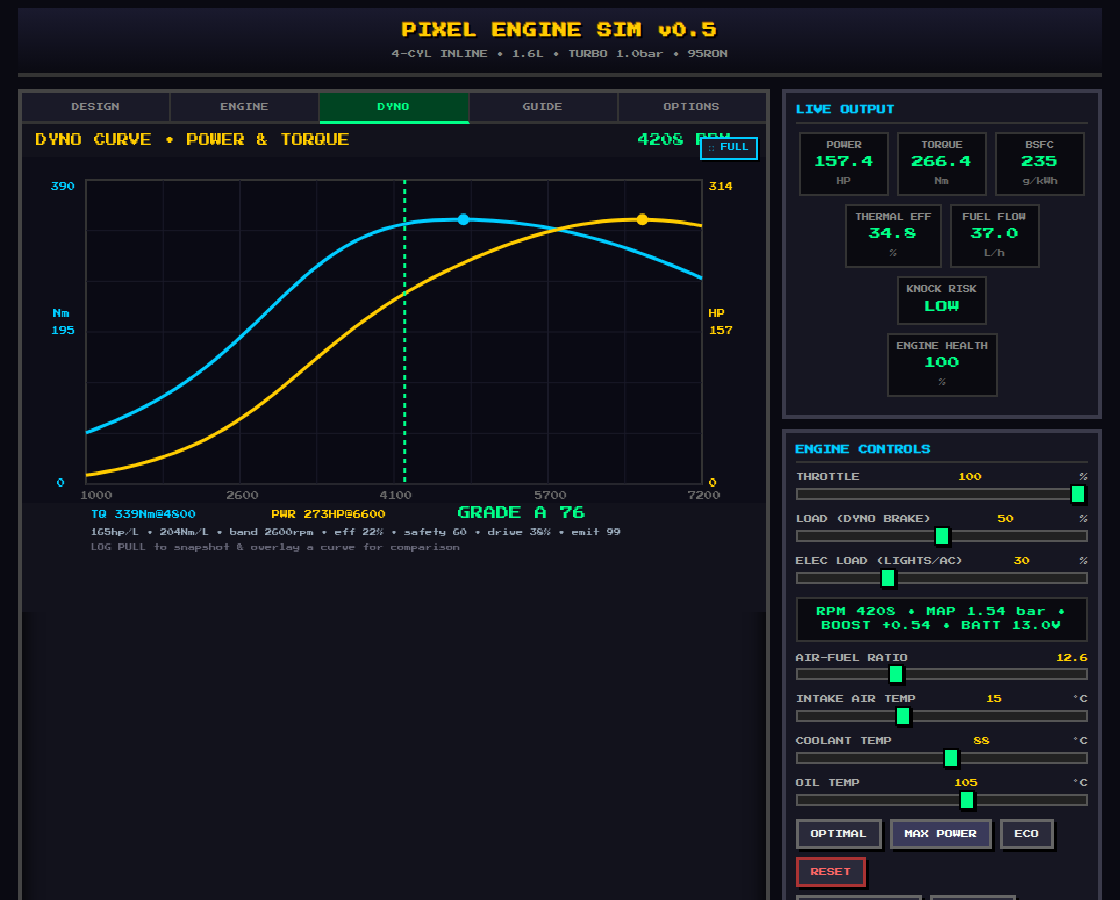
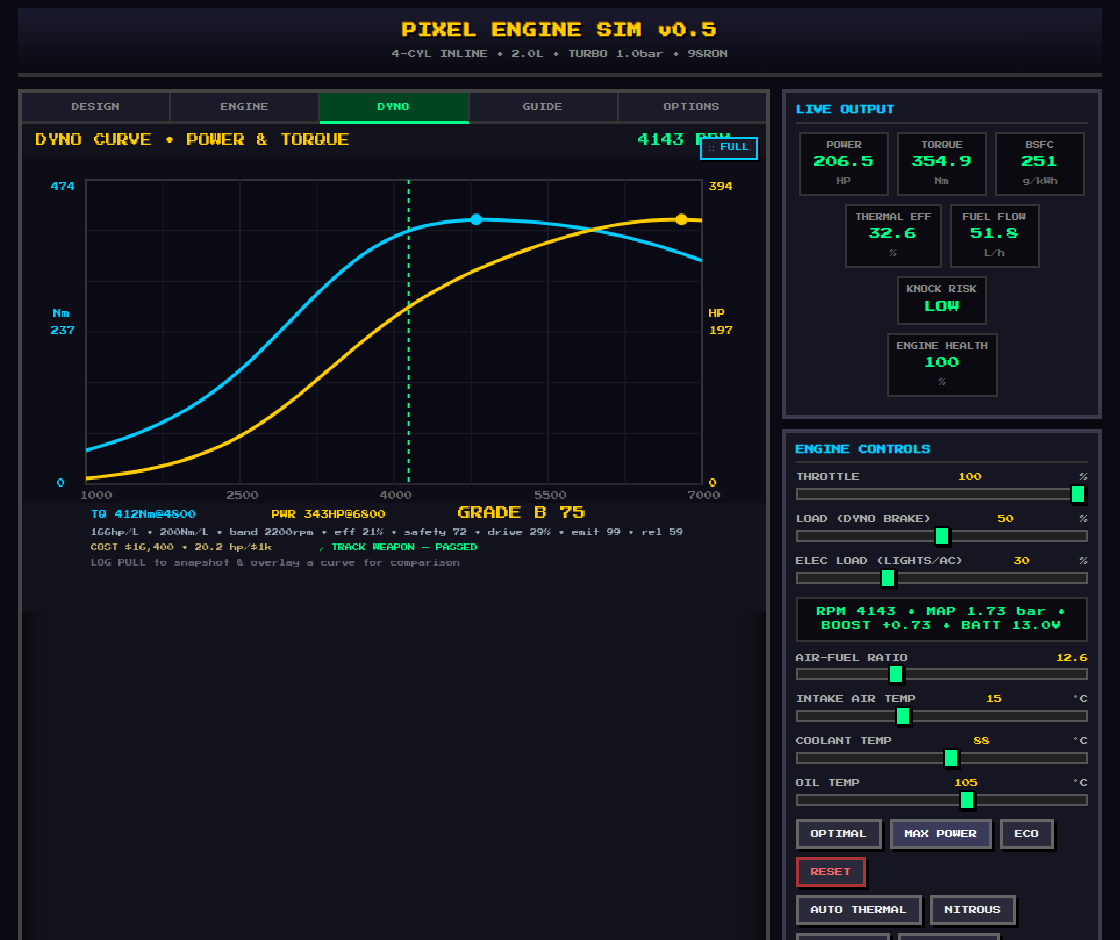
Add strategy layer (C): parts cost, budget, reliability & objective challenges (#19)
- Parts cost model: every design choice carries a rough build price, summed
  into engine.cost (shown in the design summary and on the dyno), so budgets
  and power-per-dollar have meaning. A cheap carb NA lands ~$6k; an exotic
  twin-turbo V8 ~$30k.
- Reliability index: a design-time durability estimate (0-100) from knock
  margin, boost/specific-output stress, anti-lag/nitrous/sky-high-redline
  choices and cooling adequacy for the power made — added to the scorecard.
- Power-per-dollar (hp/$1k) derived metric.
- Objective challenges: eight curated briefs (Budget Sleeper, Power per
  Dollar, Eco Cruiser, Track Weapon, Reliability Run, Clean Machine,
  Specific-Output King, plus Free Build) with optional budget caps and
  targets across power/economy/emissions/reliability/value. An OBJECTIVE
  selector + live challenge card on the DESIGN tab ticks off each target
  (checkmark/cross), draws a budget bar and shows a PASS/FAIL verdict,
  mirrored on the dyno scorecard.
- GUIDE tab gains a Career & Budget section and cost/reliability metrics.

Tests (Playwright, zero console errors), README, roadmap and screenshots updated.

Claude-Session: https://claude.ai/code/session_01AEJgmuJne9ALT6jCcxozCn

diff --git a/index.html b/index.html
@@ -93,6 +93,24 @@ footer{text-align:center;margin-top:16px;padding:8px;font-size:7px;color:#555;bo
 .opt-select{font-family:'Press Start 2P',monospace;font-size:8px;padding:8px;background:#12121c;color:#00ff88;border:2px solid #555}
 .vehicle-soon{font-size:8px;color:#aab;line-height:1.8;padding:6px 2px}
 .vehicle-soon b{color:#ffcc00}
+/* ---- Career / challenge card ---- */
+.challenge-card{background:#0a0a10;border:2px solid #33334a;padding:9px;margin-bottom:6px;font-size:8px;line-height:1.6}
+.ch-desc{color:#99aecc;line-height:1.7;margin-bottom:8px}
+.ch-stats{display:flex;flex-wrap:wrap;gap:12px;margin-bottom:8px;color:#889}
+.ch-stats b{color:#ffcc00}
+.ch-budget{margin:6px 0 8px}
+.ch-bud-lbl{font-size:7px;color:#aab;margin-bottom:4px}
+.ch-bar{height:10px;background:#1a1a28;border:2px solid #444}
+.ch-bar-fill{height:100%}
+.ch-tgt{font-size:7.5px;line-height:1.9;color:#cdd}
+.ch-tgt span{color:#667}
+.ch-tgt.ok{color:#00ff88}
+.ch-tgt.no{color:#ff8888}
+.ch-tgt.ok b,.ch-tgt.no b{color:#fff}
+.ch-verdict{margin-top:8px;padding:6px;text-align:center;font-size:8px;border:2px solid}
+.ch-verdict.pass{color:#00ff88;border-color:#00ff88;background:#04220f}
+.ch-verdict.fail{color:#ffaa66;border-color:#664433;background:#1a1108}
+.ch-hint{font-size:7px;color:#667;margin-top:4px}
 </style>
 </head>
 <body>
@@ -117,6 +135,10 @@ footer{text-align:center;margin-top:16px;padding:8px;font-size:7px;color:#555;bo
 <div class="hint">Load a preset, or configure a build and press BUILD &amp; DYNO. Physics update live.</div>
 
 <div class="field" style="margin-bottom:6px"><label for="edPreset">LOAD A PRESET</label><select id="edPreset"><option value="">— choose a popular build —</option></select></div>
+
+<div class="design-section">Career / Challenge</div>
+<div class="field" style="margin-bottom:6px"><label for="edChallenge">OBJECTIVE</label><select id="edChallenge"></select></div>
+<div class="challenge-card" id="challengeCard"></div>
 
 <div class="design-section">Bottom End</div>
 <div class="design-grid">
@@ -232,15 +254,28 @@ MAP above 1.0.<br>
 does damage. <b>HEALTH (%)</b> — condition; falls under abuse, and 0 = a blown engine (rebuild).<br>
 <b>EMISSIONS (CLEAN/OK/DIRTY)</b> — from the exhaust analyser: CO &amp; HC climb rich, NOx climbs
 lean/hot; a catalytic converter only cleans all three near stoich.<br>
-<b>λ (lambda)</b> — AFR ÷ the fuel's stoichiometric AFR: λ&lt;1 rich, 1 = stoich, &gt;1 lean.
+<b>λ (lambda)</b> — AFR ÷ the fuel's stoichiometric AFR: λ&lt;1 rich, 1 = stoich, &gt;1 lean.<br>
+<b>COST ($)</b> — total build price of the parts you chose. <b>REL (reliability)</b> — a
+design estimate of how much abuse the build invites (boost/knock/heat/high-rpm stress);
+higher is tougher. <b>hp/$1k</b> — power per thousand dollars: the value metric.
 </div>
 
 <div class="design-section">The Scorecard</div>
 <div class="guide-body">
-Every build is graded <b>S → F</b> from six things: specific <b>power</b> &amp; <b>torque</b>
+Every build is graded <b>S → F</b> from seven things: specific <b>power</b> &amp; <b>torque</b>
 (per litre), power<b>band</b> width, thermal <b>eff</b>iciency, knock <b>safety</b>,
 <b>drive</b>ability (low-end torque) and <b>emit</b> (emissions). Chasing peak power usually
 costs drivability, safety and emissions — the score rewards a balanced build.
+</div>
+
+<div class="design-section">Career &amp; Budget</div>
+<div class="guide-body">
+Pick an <b>OBJECTIVE</b> at the top of the DESIGN tab to turn free building into a puzzle.
+Each challenge sets targets — power, economy, emissions, <b>reliability</b> or
+<b>power-per-dollar</b> — and some cap your <b>budget</b>. The card ticks off each target
+live (✓/✗) and shows a <b>PASSED</b> verdict when the whole brief is met; the build's
+<b>cost</b> and reliability are always on show. Cheap displacement wins on value; boost and
+race parts win on power but cost money and reliability. Balance the brief.
 </div>
 
 <div class="design-section">Design Subsystems</div>
@@ -415,6 +450,28 @@ const PRESETS=[
   {name:'6.5 V12 NA Supercar',    engine:{cylinders:12,bore_mm:95,stroke_mm:76.4,compression:11.8,layout:'v',redline:8500,intakeSys:'itb',cam:'race',exhaust:'race',cat:'sport',octane:98,injector:'port',radiator:'large',oilCooler:true}}
 ];
 const STD_TUNE={throttle:0.85,load:0.40,elecLoad:0.30,afr:13.2,iat:25,coolant:90,oil:100,autoThermal:false};
+
+// ---- Strategy layer: objective challenges ----
+// Each challenge sets an optional budget cap and a list of targets (op >= or <=) checked
+// against the build's scorecard/cost. A curated brief that turns free design into a puzzle.
+const CHALLENGES=[
+  {id:'free',name:'Free Build (no objective)',desc:'Design whatever you like — no targets, just the cost & reliability readout.',targets:[]},
+  {id:'sleeper',name:'Budget Sleeper',desc:'Real power on a shoestring. Every part counts.',budget:9000,
+    targets:[{label:'Power',key:'peakHP',op:'>=',t:200,unit:'hp'},{label:'Reliability',key:'reliability',op:'>=',t:60}]},
+  {id:'ppd',name:'Power per Dollar',desc:'Squeeze the most horsepower out of every $1000 spent.',
+    targets:[{label:'HP per $1k',key:'hpPerK',op:'>=',t:22},{label:'Power',key:'peakHP',op:'>=',t:150,unit:'hp'}]},
+  {id:'eco',name:'Eco Cruiser',desc:'Efficient and clean, but still has to move.',budget:14000,
+    targets:[{label:'Thermal eff',key:'thEff',op:'>=',t:34,unit:'%'},{label:'Emissions',key:'emissions',op:'>=',t:80},{label:'Power',key:'peakHP',op:'>=',t:120,unit:'hp'}]},
+  {id:'track',name:'Track Weapon',desc:'Serious power that still holds together and grades well.',budget:24000,
+    targets:[{label:'Power',key:'peakHP',op:'>=',t:300,unit:'hp'},{label:'Grade',key:'grade',op:'>=',t:62},{label:'Safety',key:'safety',op:'>=',t:55}]},
+  {id:'reliable',name:'Reliability Run',desc:'Bulletproof first, powerful second.',
+    targets:[{label:'Reliability',key:'reliability',op:'>=',t:82},{label:'Power',key:'peakHP',op:'>=',t:180,unit:'hp'}]},
+  {id:'clean',name:'Clean Machine',desc:'Emissions-legal muscle — a cat and a stoich-capable tune.',
+    targets:[{label:'Emissions',key:'emissions',op:'>=',t:90},{label:'Power',key:'peakHP',op:'>=',t:150,unit:'hp'}]},
+  {id:'screamer',name:'Specific-Output King',desc:'Chase the highest power per litre without grenading it.',
+    targets:[{label:'HP per litre',key:'hpPerL',op:'>=',t:130},{label:'Safety',key:'safety',op:'>=',t:40}]}
+];
+let activeChallenge='free';
 
 const RAD_CAP={small:0.75,stock:1.0,large:1.35};   // relative heat-rejection capacity
 const IMEP_K=13.2;   // indicated MEP calibration (bar at map=1, ve=1, best-power AFR)
@@ -669,9 +726,91 @@ function buildEngine(){
   syncSliders();
 
   buildRev++;dynoCache=null;
+  engine.cost=computeCost();
   engine.score=scoreEngine();
   updateEngineLabels();
   updateDesignSummary();
+  renderChallenge();
+}
+// ---- Strategy layer: what the build costs (parts $) ----
+// Rough per-part pricing so budget challenges and hp-per-dollar have meaning. Values are
+// ballpark "build" money, not a real quote — tuned so a sensible street build lands in a
+// believable range and exotic choices (big turbos, ITBs, race cams) cost real money.
+function computeCost(){
+  let c=900*engine.cylinders+350*engine.displacement_L;          // block, machining, internals
+  c+={inline:0,v:700,boxer:1100}[engine.layout]||0;
+  if(engine.redline>7500)c+=(engine.redline-7500)*0.9;           // high-rpm valvetrain/internals
+  if(engine.compression>11)c+=(engine.compression-11)*250;       // forged high-compression pistons
+  if(engine.intake==='turbo'){
+    c+=({small:1200,medium:1800,large:2600}[engine.turboSize]||1800)*({single:1,twin:1.8,sequential:2.6,compound:3.0}[engine.turboConfig]||1);
+    if(engine.antilag)c+=700;
+  }else if(engine.intake==='supercharger'){
+    c+={roots:2200,screw:3200,centrifugal:2600}[engine.scType]||2200;
+  }
+  if(engine.intake!=='na'){
+    c+={none:0,small:450,large:950}[engine.intercooler]||0;
+    c+=engine.boost_bar*900;                                     // fuelling/plumbing for boost
+  }
+  c+={none:0,small:500,large:900}[engine.nitrous]||0;
+  c+={stock:0,sport:550,race:1400}[engine.exhaust]||0;
+  c+={none:0,sport:500,stock:300}[engine.cat]||0;
+  c+={carb1:200,carb2:350,carb4:600,sidedraft:1400,mech:1900,efi:1200,itb:2600}[engine.intakeSys]||0;
+  c+={none:0,perf:200,stock:60,restrictive:30}[engine.airFilter]||0;
+  c+={stock:0,sport:700,race:1600}[engine.cam]||0;
+  if(engine.vvt)c+=1200;
+  if(engine.injector==='direct')c+=900;
+  c+={distributor:150,wasted:400,coil:900}[engine.ignitionType]||0;
+  if(engine.timingMode==='auto')c+=600;
+  c+={gasoline:0,race:0,e85:300,methanol:500}[engine.fuel]||0;
+  c+={small:200,stock:400,large:800}[engine.radiator]||0;
+  c+={none:0,mechanical:150,electric:350}[engine.fan]||0;
+  if(engine.oilCooler)c+=500;
+  c+={'60':150,'120':250,'180':450}[engine.alternator]||0;
+  return Math.max(500,Math.round(c/50)*50);   // round to nearest $50
+}
+// Metrics available to a challenge objective (score + cost + derived power-per-dollar).
+function buildMetrics(){
+  const s=engine.score||{};
+  return {peakHP:s.peakHP||0,hpPerL:s.hpPerL||0,peakTQ:s.peakTQ||0,nmPerL:s.nmPerL||0,
+    thEff:s.thEff||0,emissions:s.emissions||0,safety:s.safety||0,drive:s.drive||0,band:s.band||0,
+    reliability:s.reliability||0,grade:s.overall||0,cost:engine.cost||0,
+    hpPerK:engine.cost>0?+((s.peakHP||0)/(engine.cost/1000)).toFixed(1):0};
+}
+function evalChallenge(ch,m){
+  const results=(ch.targets||[]).map(t=>{
+    const v=m[t.key],pass=t.op==='<='?v<=t.t:v>=t.t;
+    return {label:t.label,v,t:t.t,op:t.op,unit:t.unit||'',pass};
+  });
+  const budgetPass=ch.budget?m.cost<=ch.budget:true;
+  return {results,budgetPass,cost:m.cost,budget:ch.budget||0,pass:results.every(r=>r.pass)&&budgetPass};
+}
+function fmtCost(v){return '$'+Math.round(v).toLocaleString();}
+function renderChallenge(){
+  const el=document.getElementById('challengeCard');
+  if(!el)return;
+  const ch=CHALLENGES.find(c=>c.id===activeChallenge)||CHALLENGES[0];
+  const m=buildMetrics();
+  const relCol=m.reliability>=75?'#00ff88':m.reliability>=50?'#ffcc00':'#ff6666';
+  let html='<div class="ch-desc">'+ch.desc+'</div>';
+  html+='<div class="ch-stats"><span>COST <b>'+fmtCost(m.cost)+'</b></span>'
+    +'<span>REL <b style="color:'+relCol+'">'+m.reliability+'</b></span>'
+    +'<span><b>'+m.hpPerK+'</b> hp/$1k</span></div>';
+  if((ch.targets&&ch.targets.length)||ch.budget){
+    const ev=evalChallenge(ch,m);
+    if(ch.budget){
+      const over=m.cost>ch.budget,frac=clamp(m.cost/ch.budget,0,1.15);
+      html+='<div class="ch-budget"><div class="ch-bud-lbl">BUDGET '+fmtCost(m.cost)+' / '+fmtCost(ch.budget)+(over?' — OVER':'')+'</div>'
+        +'<div class="ch-bar"><div class="ch-bar-fill" style="width:'+Math.min(100,frac*100)+'%;background:'+(over?'#ff4444':'#00ff88')+'"></div></div></div>';
+    }
+    ev.results.forEach(r=>{
+      const val=typeof r.v==='number'?(Number.isInteger(r.v)?r.v:r.v.toFixed(1)):r.v;
+      html+='<div class="ch-tgt '+(r.pass?'ok':'no')+'">'+(r.pass?'✓':'✗')+' '+r.label+': <b>'+val+r.unit+'</b> <span>(need '+(r.op==='<='?'≤':'≥')+' '+r.t+r.unit+')</span></div>';
+    });
+    html+='<div class="ch-verdict '+(ev.pass?'pass':'fail')+'">'+(ev.pass?'✓ CHALLENGE PASSED':'✗ NOT MET YET')+'</div>';
+  }else{
+    html+='<div class="ch-hint">Pick an objective above to set targets, or keep building freely.</div>';
+  }
+  el.innerHTML=html;
 }
 function updateEngineLabels(){
   const disp=engine.displacement_L.toFixed(engine.displacement_L<1?2:1);
@@ -709,8 +848,10 @@ function updateDesignSummary(){
 function scoreLine(s){
   if(!s)return'';
   const gc=s.overall>=76?'#00ff88':s.overall>=46?'#ffcc00':'#ff6666';
+  const relCol=s.reliability>=75?'#00ff88':s.reliability>=50?'#ffcc00':'#ff6666';
   return '<br><span style="color:'+gc+'">SCORE <b>'+s.grade+' ('+s.overall+')</b></span> • '+s.peakHP+'hp @'+s.peakHPrpm+' • '+s.peakTQ+'Nm @'+s.peakTQrpm+
-    '<br><span style="color:#889">'+s.hpPerL+'hp/L • band '+s.band+'rpm • eff '+s.thEff+'% • safety '+s.safety+' • drive '+s.drive+'% • emit '+s.emissions+'</span>';
+    '<br><span style="color:#889">'+s.hpPerL+'hp/L • band '+s.band+'rpm • eff '+s.thEff+'% • safety '+s.safety+' • drive '+s.drive+'% • emit '+s.emissions+'</span>'+
+    '<br>Cost <b>'+fmtCost(engine.cost||0)+'</b> • Reliability <b style="color:'+relCol+'">'+(s.reliability||0)+'</b> • <b>'+(engine.cost>0?(s.peakHP/(engine.cost/1000)).toFixed(1):0)+'</b> hp/$1k';
 }
 
 // ---- Turbo spool: how much of the target boost is available at a given RPM ----
@@ -1231,8 +1372,21 @@ function scoreEngine(){
   const sSafe=safety*100, sDrive=clamp((drive-0.4)/0.5,0,1)*100, sEmit=emissions;
   const overall=Math.round(0.26*sPower+0.12*sTorque+0.15*sBand+0.12*sEff+0.15*sSafe+0.10*sDrive+0.10*sEmit);
   const grade=overall>=88?'S':overall>=76?'A':overall>=62?'B':overall>=46?'C':overall>=30?'D':'F';
+  // Design reliability index (0-100): a static estimate of how much abuse the build invites,
+  // from knock margin, boost/specific-output stress, high-strung choices and cooling adequacy.
+  let rel=100;
+  rel-=(1-safety)*45;                                   // knock-prone = grenade
+  rel-=Math.max(0,engine.maxBoost-0.5)*22;             // boost stress on internals
+  rel-=Math.max(0,hpPerL-110)*0.30;                    // highly-strung specific output
+  rel-=engine.antilag?15:0;                            // ALS cooks turbo/exhaust
+  rel-=engine.nitrous!=='none'?12:0;                   // chemical stress
+  rel-=Math.max(0,engine.redline-7500)/100*2;          // sky-high redline
+  const coolNeed=clamp(peakHP/260,0,1.6);
+  const coolHave=engine.radCap+(engine.oilCooler?0.4:0)+(engine.fan==='none'?0:0.2);
+  rel-=Math.max(0,coolNeed-coolHave)*30;               // under-cooled for the power
+  const reliability=clamp(Math.round(rel),0,100);
   return {peakHP:Math.round(peakHP),peakHPrpm,peakTQ:Math.round(peakTQ),peakTQrpm,hpPerL:Math.round(hpPerL),
-    nmPerL:Math.round(nmPerL),band,thEff:Math.round(thEff),safety:Math.round(sSafe),drive:Math.round(drive*100),emissions,overall,grade};
+    nmPerL:Math.round(nmPerL),band,thEff:Math.round(thEff),safety:Math.round(sSafe),drive:Math.round(drive*100),emissions,reliability,overall,grade};
 }
 function flash(msg,cls){
   const status=document.getElementById('status');
@@ -1443,12 +1597,22 @@ function drawDyno(){
     const gc=s.overall>=76?C.green:s.overall>=46?C.yellow:C.red;
     ctx.fillStyle=gc;ctx.font='11px "Press Start 2P"';ctx.fillText('GRADE '+s.grade+' '+s.overall,gX+320,iy+1);
     ctx.font='6px "Press Start 2P"';ctx.fillStyle='#99aabb';
-    ctx.fillText(s.hpPerL+'hp/L • '+s.nmPerL+'Nm/L • band '+s.band+'rpm • eff '+s.thEff+'% • safety '+s.safety+' • drive '+s.drive+'% • emit '+s.emissions,gX+4,iy+15);
+    ctx.fillText(s.hpPerL+'hp/L • '+s.nmPerL+'Nm/L • band '+s.band+'rpm • eff '+s.thEff+'% • safety '+s.safety+' • drive '+s.drive+'% • emit '+s.emissions+' • rel '+s.reliability,gX+4,iy+15);
+  }
+  // Strategy: cost / power-per-dollar, and the active challenge verdict
+  const m=buildMetrics();
+  ctx.font='6px "Press Start 2P"';ctx.fillStyle='#cbb26a';
+  ctx.fillText('COST '+fmtCost(m.cost)+' • '+m.hpPerK+' hp/$1k',gX+4,iy+28);
+  const ch=CHALLENGES.find(c=>c.id===activeChallenge);
+  if(ch&&ch.id!=='free'){
+    const ev=evalChallenge(ch,m);
+    ctx.fillStyle=ev.pass?C.green:C.red;
+    ctx.fillText((ev.pass?'✓ ':'✗ ')+ch.name.toUpperCase()+' — '+(ev.pass?'PASSED':'NOT MET'),gX+200,iy+28);
   }
   ctx.font='6px "Press Start 2P"';
   if(dynoPulls.length){
-    dynoPulls.forEach((pl,i)=>{ctx.fillStyle=pl.color;ctx.fillText('— '+pl.label,gX+4+i*132,iy+28);});
-  }else{ctx.fillStyle='#667';ctx.fillText('LOG PULL to snapshot & overlay a curve for comparison',gX+4,iy+28);}
+    dynoPulls.forEach((pl,i)=>{ctx.fillStyle=pl.color;ctx.fillText('— '+pl.label,gX+4+i*132,iy+41);});
+  }else{ctx.fillStyle='#667';ctx.fillText('LOG PULL to snapshot & overlay a curve for comparison',gX+4,iy+41);}
 }
 function updateUI(){
   document.getElementById('valThrottle').textContent=Math.round(state.throttle*100);
@@ -1590,6 +1754,12 @@ function bindControls(){
     flash('LOADED: '+p.name+' • '+engine.displacement_L.toFixed(engine.displacement_L<1?2:1)+'L'+(engine.score?' • '+engine.score.grade:''));
     setTab('dyno');
   });
+  // Career / challenge selector
+  const chSel=document.getElementById('edChallenge');
+  CHALLENGES.forEach(c=>{const o=document.createElement('option');o.value=c.id;o.textContent=c.name;chSel.appendChild(o);});
+  chSel.value=activeChallenge;
+  chSel.addEventListener('change',e=>{activeChallenge=e.target.value;renderChallenge();
+    const ch=CHALLENGES.find(c=>c.id===activeChallenge);flash('OBJECTIVE: '+(ch?ch.name:'FREE BUILD'));});
   document.getElementById('btnBuild').addEventListener('click',()=>{buildEngine();flash('ENGINE BUILT • '+engine.displacement_L.toFixed(engine.displacement_L<1?2:1)+'L');setTab('dyno')});
   document.getElementById('btnDesignReset').addEventListener('click',()=>{applyEngineToForm(Object.assign({},DEFAULT_ENGINE));buildEngine();flash('DESIGN RESET TO DEFAULTS')});
 }

diff --git a/README.md b/README.md
@@ -101,6 +101,12 @@ saps power; a large radiator, electric fan and oil cooler keep it cool.
 - **Scoring** — every build gets a graded scorecard (S–F) rating power, specific output,
   powerband width, efficiency, knock safety, drivability and **emissions**, shown on the
   design summary and the dyno.
+- **Strategy / Career** — every build has a **parts cost** and a **reliability index** (a
+  design estimate of how much abuse it invites), plus a **power-per-dollar** metric. Pick an
+  **OBJECTIVE** on the DESIGN tab (Budget Sleeper, Power per Dollar, Eco Cruiser, Track
+  Weapon, Reliability Run, Clean Machine, Specific-Output King…) — some cap your budget — and
+  the challenge card ticks off each target live (✓/✗) with a PASS/FAIL verdict, mirrored on
+  the dyno. Turns free design into a puzzle with real trade-offs.
 - **Dyno pull logging** — snapshot the current curve and overlay several pulls on the graph
   to compare builds or tunes.
 - **Save / Load / Share** — quick-save to `localStorage`; **save to a named file** (with a
@@ -200,6 +206,11 @@ Curve** tab remains a wide-open-throttle steady-state sweep for reading the full
   lean-under-boost (burnt pistons) and over-rev; a clean tune barely wears. Lower health
   cuts power; zero health = catastrophic failure until rebuilt. Damage happens over tens of
   seconds of abuse — long enough to heed the warnings and back off.
+- Strategy: each part carries a rough build cost, summed into a total (so budget challenges
+  and power-per-dollar have meaning); a design reliability index estimates durability from
+  knock margin, boost/specific-output stress, high-strung choices (anti-lag, nitrous, sky-high
+  redline) and cooling adequacy for the power made. These are design-time estimates, not the
+  live wear model (which still plays out as you drive).
 - Electrical: the alternator (output rising with RPM) charges the battery when it
   out-supplies demand and drains it otherwise; system voltage tracks state of charge. Low
   voltage weakens the spark, and each ignition type has a dwell/misfire RPM limit, so a
@@ -236,8 +247,9 @@ philosophy).
    combustion temperature, a **catalytic converter** design option and a stoich-window
    three-way conversion model, a live analyser readout + an emissions score, and a
    character-driven **lope/burble** on the engine note.
-4. **(C) Strategy layer** — per-part costs / budget and objective-based challenges
-   (targets for power, economy, reliability, power-per-dollar).
+4. ~~**(C) Strategy layer**~~ ✅ **done** — per-part costs, a total build budget, a design
+   reliability index and power-per-dollar, plus eight objective-based challenges (power,
+   economy, emissions, reliability, power-per-dollar…) with live pass/fail.
 5. **(B) New engine types** — diesel (compression ignition), rotary/Wankel, 2-stroke.
 6. **(A) Vehicle / drivetrain layer** — gearbox, weight, grip and aero drag → 0–60,
    quarter-mile and top-speed runs off the dynamic model.
@@ -271,6 +283,7 @@ native Android build (parked).
 - [x] Intercooler core sizing (none/small/large — charge cooling vs spool lag)
 - [x] In-app GUIDE tab (documentation) and OPTIONS tab (sound/wear/language); tab-aware side panel
 - [x] Vehicle Designer placeholder reserving space for the vehicle/drivetrain layer (feature A)
+- [x] Strategy layer: parts cost/budget, reliability index, power-per-dollar & objective challenges
 - [x] Calibration pass for realistic power figures & curve shape (ongoing refinement)
 - [ ] Native Android build (wrap the PWA with Capacitor or a Trusted Web Activity)
 
